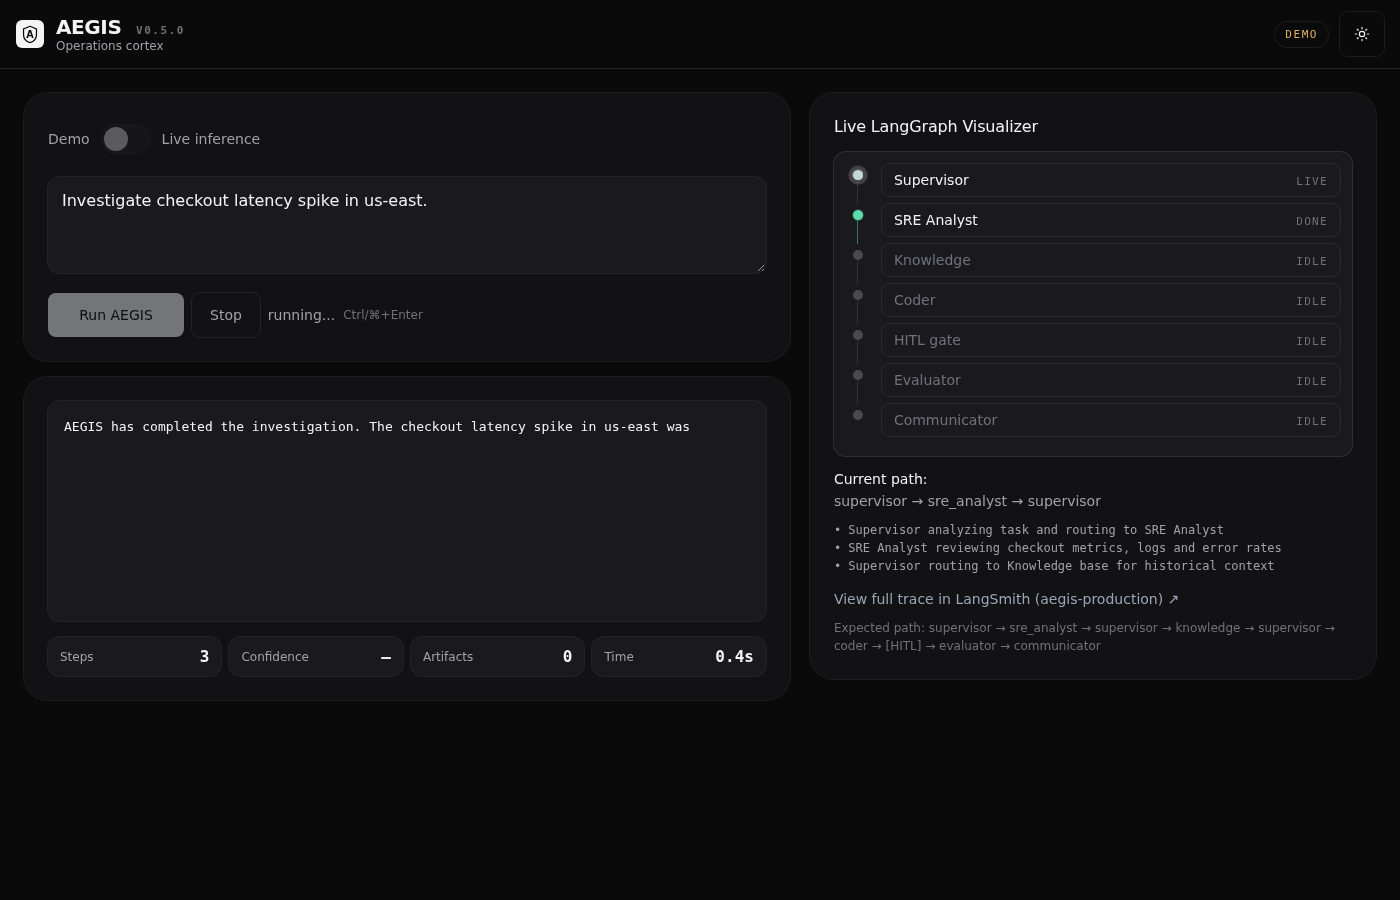
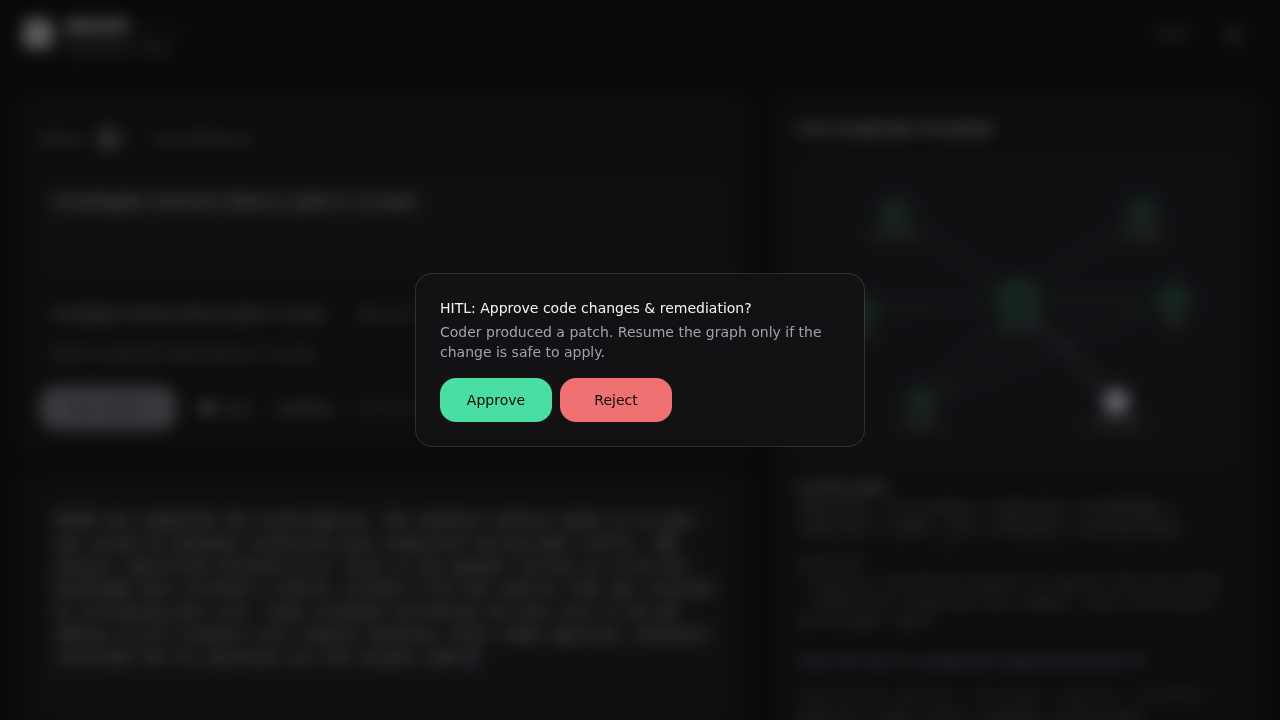
Document the 0.6.0 console and refresh dashboard screenshots
Record the spatial hub, HITL dialog, and mobile panes. Recapture the
three product shots from a demo run on the restyled console.

diff --git a/CHANGELOG.md b/CHANGELOG.md
@@ -6,6 +6,21 @@ The format is based on [Keep a Changelog](https://keepachangelog.com/).
 
 ---
 
+## [0.6.0] - 2026-09-17
+
+### Changed
+- **Operations console** - spatial LangGraph hub (supervisor plus specialists) replaces the vertical stepper, with live edge highlighting as the run routes.
+- **HITL gate** - approval is a focused dialog over the console instead of an inline panel, with the Approve control focused on open.
+- **Mobile panes** - Console and Graph are tabbed below 960px so the visualizer is one tap away instead of below the fold.
+- **Sample requests** - three starter incidents fill the request field without changing API behavior.
+- **Artifact chips** - completed runs list produced files under the stream.
+- **Stream status** - running state uses a reduced-motion-safe shimmer; output still streams through the same SSE contract (`/stream`, `/threads/{id}/resume/stream`).
+
+### Added
+- Dashboard tests cover the hub graph marker while keeping the v0.5.0 chrome assertions (theme toggle, overlay scrollbars, HITL copy).
+
+---
+
 ## [0.5.0] - 2026-09-16
 
 ### Changed

diff --git a/README.md b/README.md
@@ -21,7 +21,7 @@ Open [aegis-agent-api.vercel.app/ui](https://aegis-agent-api.vercel.app/ui) and 
 
 **What you'll see:**
 
-- **Real-time LangGraph visualizer** animating the execution path: Supervisor → SRE Analyst → Knowledge → Coder → [HITL] → Evaluator → Communicator
+- **Real-time LangGraph visualizer** - a spatial hub graph of the supervisor and specialists, animating Supervisor → SRE Analyst → Knowledge → Coder → [HITL] → Evaluator → Communicator
 - **Streaming agent output** - each specialist's findings appear as they execute, with confidence scores and artifact counts
 - **Human-in-the-Loop gate** - the Coder produces a patch, pauses for your approval, then the Evaluator and Communicator complete the flow
 - **Demo / Live toggle** - Demo mode runs an instant simulation; Live mode connects to the real LangGraph with your API keys

diff --git a/VERCEL_DEPLOY.md b/VERCEL_DEPLOY.md
@@ -1,4 +1,4 @@
-# Vercel Deploy Notes – AEGIS v0.5.0
+# Vercel Deploy Notes – AEGIS v0.6.0
 
 Live: https://aegis-agent-api.vercel.app/ui
 
